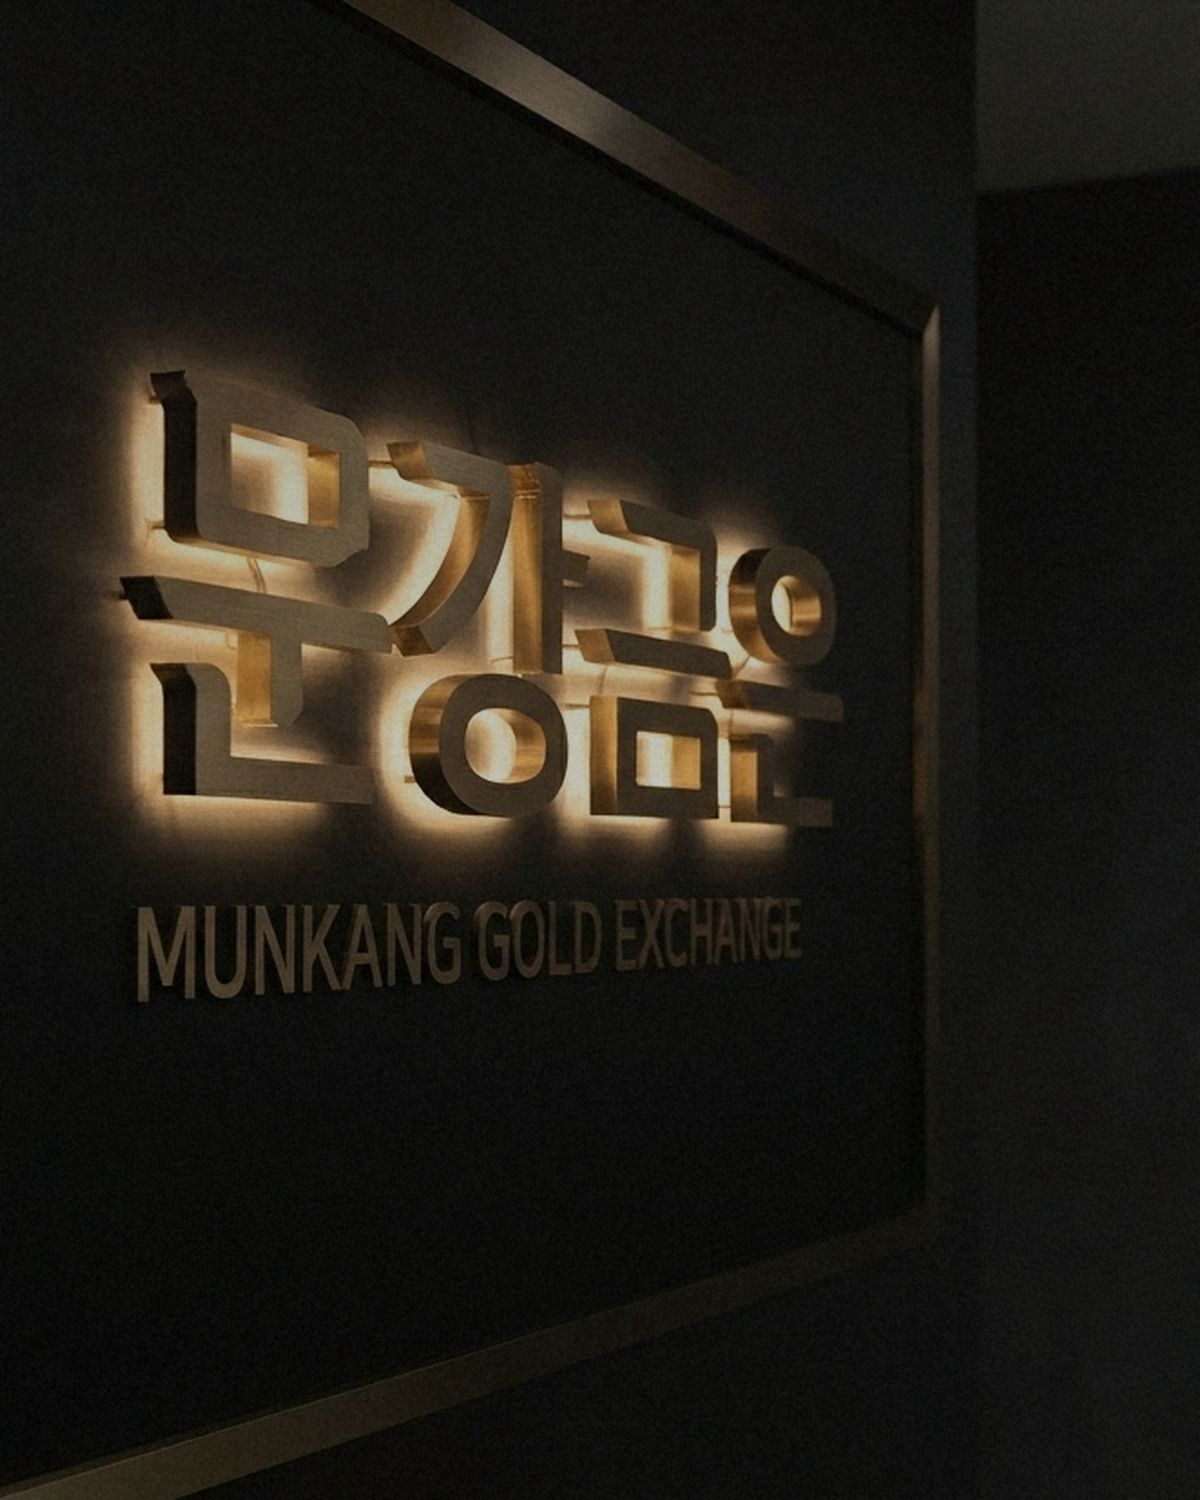
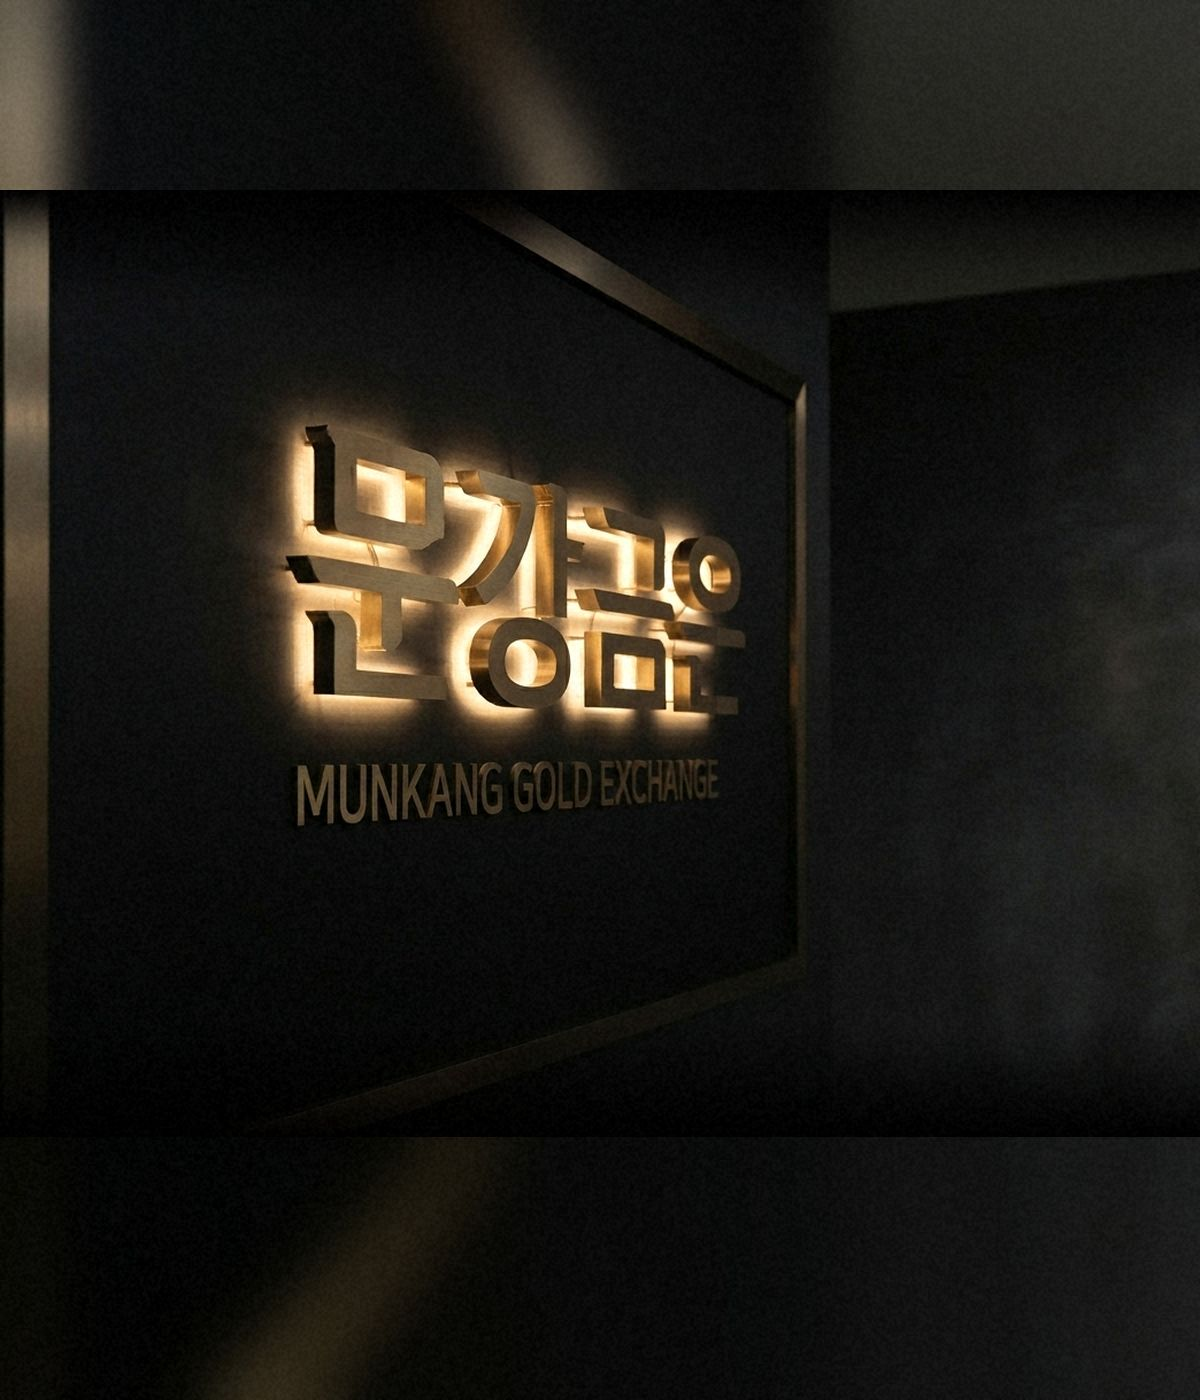
feat: 히어로 재구성 — 웹은 왼쪽 간판 패널, 모바일은 간판 먼저 보고 스크롤하면 문구가 차례로 등장

diff --git a/public/css/site.css b/public/css/site.css
@@ -239,7 +239,7 @@ h1,h2,h3{text-wrap:balance}p,li,dd{text-wrap:pretty}
 .footer-grid>*{min-width:0}.f-social{display:flex;flex-wrap:wrap;gap:6px 14px}
 
 /* 매장 실사 배너 — 히어로 배경(왼쪽은 글자가 읽히도록 어둡게 덮는다) */
-.hero{background:linear-gradient(90deg,#151311 0%,rgba(21,19,17,.95) 32%,rgba(21,19,17,.8) 55%,rgba(21,19,17,.62) 78%,rgba(21,19,17,.55) 100%),var(--hero-img,url("/img/hero.jpg")) center right/cover no-repeat,linear-gradient(180deg,#1a1713,#151311)}
+.hero{background:linear-gradient(90deg,#151311 0%,rgba(21,19,17,.95) 32%,rgba(21,19,17,.8) 55%,rgba(21,19,17,.62) 78%,rgba(21,19,17,.55) 100%),var(--hero-img,url("/img/hero.jpg")) left center/cover no-repeat,linear-gradient(180deg,#1a1713,#151311)}
 @media (max-width:900px){.hero{background:linear-gradient(180deg,rgba(21,19,17,.9) 0%,rgba(21,19,17,.74) 38%,rgba(21,19,17,.9) 100%),var(--hero-img-m,url("/img/hero-mobile.jpg")) center top/cover no-repeat,#151311}}
 
 /* 소개 페이지 매장 실사 */
@@ -249,3 +249,33 @@ h1,h2,h3{text-wrap:balance}p,li,dd{text-wrap:pretty}
 
 /* 시세판을 어두운 유리처럼 — 뒤 배너 사진이 숫자와 겹쳐 읽히지 않게 */
 .hero-board{background:rgba(18,16,14,.72);border-color:rgba(255,255,255,.12);box-shadow:0 24px 60px rgba(0,0,0,.45)}
+
+.hero-main .hb-table th,.hero-main .hb-table td{padding-top:7px;padding-bottom:7px}
+/* 히어로 재구성 — 웹: 왼쪽 간판 패널 + 오른쪽 내용 / 모바일: 간판을 먼저 보여주고 스크롤하면 내용이 올라온다 */
+.hero{background:linear-gradient(180deg,#1a1713 0%,var(--char) 55%,#151311 100%)}
+.hero-grid{max-width:none;grid-template-columns:.95fr 1.15fr;gap:0;align-items:stretch;padding:0}
+.hero-visual{position:relative;align-self:stretch;min-height:540px;background:var(--hero-img,url("/img/hero.jpg")) left center/cover no-repeat}
+.hero-visual::after{content:"";position:absolute;inset:0;background:linear-gradient(90deg,rgba(21,19,17,.45) 0%,rgba(21,19,17,.04) 24%,rgba(21,19,17,.3) 72%,var(--char) 100%)}
+.hero-main{display:flex;flex-direction:column;gap:16px;padding:40px max(20px,calc((100vw - 1160px)/2)) 40px 48px;min-width:0}
+.hero-main .hero-copy{max-width:640px}
+.hv-cue{display:none}
+@keyframes heroRise{from{opacity:0;transform:translateY(26px)}to{opacity:1;transform:none}}
+@keyframes heroSink{from{opacity:1;transform:scale(1)}to{opacity:.5;transform:scale(1.07)}}
+@keyframes cueFade{to{opacity:0}}
+@keyframes cueDrop{0%{opacity:.25;transform:translateY(-5px)}50%{opacity:1}100%{opacity:.25;transform:translateY(5px)}}
+@media (max-width:900px){
+  .hero-grid{grid-template-columns:1fr;gap:0;padding:0}
+  .hero-visual{margin:0;min-height:0;height:68vh;max-height:560px;background-image:var(--hero-img-m,url("/img/hero-mobile.jpg"));background-position:center 36%}
+  .hero-visual::after{background:linear-gradient(180deg,rgba(21,19,17,.3) 0%,rgba(21,19,17,0) 40%,rgba(21,19,17,.72) 86%,var(--char) 100%)}
+  .hv-cue{display:flex;align-items:center;gap:8px;position:absolute;left:0;right:0;bottom:16px;justify-content:center;z-index:2;color:#d8d0bd;font-size:12px;font-weight:600}
+  .hv-cue i{width:1px;height:24px;background:linear-gradient(#d8d0bd,rgba(216,208,189,0));animation:cueDrop 1.8s ease-in-out infinite}
+  .hero-main{padding:24px 16px 36px;gap:18px}
+  .hero-main .hero-copy{max-width:none}
+}
+@media (max-width:900px){
+  .hero-visual{opacity:calc(1 - var(--hero-p,0) * .45);transform:scale(calc(1 + var(--hero-p,0) * .06));transform-origin:50% 35%;will-change:opacity,transform}
+  .hv-cue{opacity:calc(1 - var(--hero-p,0) * 2.2)}
+  .hero-copy>.seq{opacity:0;transform:translateY(26px);transition:opacity .55s ease,transform .55s cubic-bezier(.22,.61,.36,1)}
+  .hero-copy>.seq.in{opacity:1;transform:none}
+}
+@media (prefers-reduced-motion:reduce){.hero-visual{opacity:1!important;transform:none!important}.hv-cue i{animation:none!important}.hero-copy>.seq{transition:none!important}}

diff --git a/public/js/site.js b/public/js/site.js
@@ -124,6 +124,32 @@
     document.addEventListener('visibilitychange', () => { if (!document.hidden) pull(); });
   }
 
+  // 모바일 히어로 시퀀스 — 간판을 먼저 보여주고, 스크롤하면 문구가 차례로 올라온다
+  const heroSec = $('.hero'); const heroVisual = $('.hero-visual'); const heroCopy = $('.hero-copy');
+  if (heroSec && heroVisual && heroCopy) {
+    const mq = window.matchMedia('(max-width:900px)');
+    const items = $$(':scope > *', heroCopy);
+    let ticking = false;
+    const paint = () => {
+      if (!mq.matches) return;
+      const h = heroVisual.offsetHeight || 1;
+      heroSec.style.setProperty('--hero-p', Math.min(1, Math.max(0, window.scrollY / h)).toFixed(3));
+      const trigger = window.innerHeight * 0.78;
+      items.forEach(el => { if (el.getBoundingClientRect().top < trigger) el.classList.add('in'); });
+    };
+    const setup = () => {
+      if (mq.matches) {
+        const still = window.matchMedia('(prefers-reduced-motion: reduce)').matches;
+        items.forEach((el, i) => { el.classList.add('seq'); el.style.transitionDelay = `${i * 90}ms`; if (still) el.classList.add('in'); });
+        if (!still) paint();
+      }
+      else { items.forEach(el => { el.classList.remove('seq', 'in'); el.style.transitionDelay = ''; }); heroSec.style.removeProperty('--hero-p'); }
+    };
+    window.addEventListener('scroll', () => { if (ticking) return; ticking = true; requestAnimationFrame(() => { paint(); ticking = false; }); }, { passive: true });
+    window.addEventListener('resize', setup, { passive: true });
+    setup();
+  }
+
   // 유튜브 롤링(홈 계산기 옆) — 3.5초마다 한 칸, 마우스를 올리면 멈춤, 누르면 팝업 재생
   const roll = $('#ytRoll'); const ytModal = $('#ytModal');
   if (roll && ytModal) {

diff --git a/routes/pages-main.js b/routes/pages-main.js
@@ -68,6 +68,8 @@ router.get('/', (req, res) => {
   const body = `
 <section class="hero">
   <div class="wrap hero-grid">
+    <div class="hero-visual"><span class="hv-cue" aria-hidden="true"><i></i>아래로 내리면 오늘 시세</span></div>
+    <div class="hero-main">
     <div class="hero-copy">
       <p class="eyebrow">종로3가역 11번 출구 앞 금·은 매입·판매</p>
       <h1>오늘 금 한 돈,<br><span class="hl">${g ? fmtNum(g.buy) + '원' : '당일 시세'}</span>에 사드립니다</h1>
@@ -83,6 +85,7 @@ router.get('/', (req, res) => {
       </div>
       <table class="hb-table"><tbody>${st.rows.filter(r => r.code !== 'au999').map(r => `<tr data-code="${attr(r.code)}"><th>${esc(r.name)}</th><td class="num">${fmtNum(r.buy)}</td><td class="num">${r.sell ? fmtNum(r.sell) : '<span class="muted">—</span>'}</td><td class="num">${chg(r.diff, r.pct)}</td></tr>`).join('')}</tbody><tfoot><tr><th></th><td class="num">매입</td><td class="num">판매</td><td class="num">전일비</td></tr></tfoot></table>
       <div class="hb-foot"><span class="unit-toggle" role="group" aria-label="단위"><button class="ut active" data-unit="don">돈</button><button class="ut" data-unit="g">g</button></span><a href="/price">전체 시세표 →</a></div>
+    </div>
     </div>
   </div>
   <div class="ticker" aria-label="오늘의 시세 흐름"><div class="ticker-track" id="tickerTrack">${tickerHtml}${tickerHtml}</div></div>

diff --git a/scripts/make-banner.py b/scripts/make-banner.py
@@ -127,7 +127,7 @@ def extend_left_dark(im, out_w, out_h, sign_center=0.40, target=0.66):
     return canvas.crop((start, 0, start + out_w, h))
 
 
-def trim_corner(im, right_pct=0.085, bottom_pct=0.075):
+def trim_corner(im, right_pct=0.13, bottom_pct=0.08):
     """오른쪽 아래 모서리(생성 이미지 워터마크 영역)를 잘라낸다."""
     w, h = im.size
     return im.crop((0, 0, int(w * (1 - right_pct)), int(h * (1 - bottom_pct))))
@@ -158,24 +158,51 @@ def spread(im, out_w, out_h, target):
     return (extend_left_dark if DARK else extend_left)(im, out_w, out_h, target=target)
 
 
+def panel(im, w, h, top_bias=0.5):
+    """세로로 긴 패널용 — 가로를 꽉 채우고 남는 위아래는 벽면을 늘려 채운다(간판이 잘리지 않게)."""
+    base = im.resize((w, max(1, int(im.height * w / im.width + 0.5))), Image.LANCZOS)
+    if base.height >= h:
+        return cover(im, w, h, 0.5)
+    scale = w / im.width
+    if scale > 2:
+        base = base.filter(ImageFilter.GaussianBlur(min(5.0, (scale - 1) * 0.4)))
+    pad = h - base.height
+    top = int(pad * top_bias)
+    edge = max(4, int(base.height * 0.07))
+    canvas = Image.new('RGB', (w, h))
+    if top > 0:
+        strip = base.crop((0, 0, w, edge)).resize((w, top), Image.LANCZOS).filter(ImageFilter.GaussianBlur(26))
+        canvas.paste(ImageEnhance.Brightness(strip).enhance(0.9), (0, 0))
+    if pad - top > 0:
+        strip = base.crop((0, base.height - edge, w, base.height)).resize((w, pad - top), Image.LANCZOS).filter(ImageFilter.GaussianBlur(26))
+        canvas.paste(ImageEnhance.Brightness(strip).enhance(0.9), (0, top + base.height))
+    # 늘린 벽면과 원본 경계가 보이지 않도록 위아래를 부드럽게 겹친다
+    fade = max(40, int(base.height * 0.12))
+    m = Image.new('L', (1, base.height), 255)
+    for y in range(fade):
+        v = int(255 * (y / max(1, fade - 1)))
+        m.putpixel((0, y), v)
+        m.putpixel((0, base.height - 1 - y), v)
+    canvas.paste(base, (0, top), m.resize((w, base.height), Image.BILINEAR))
+    return canvas
+
+
 def hero_desktop(src):
-    """데스크톱 히어로 배경 — 간판이 오른쪽에 오고, 왼쪽은 글자를 얹을 수 있게 비운다.
-    어둡게 까는 그라데이션은 CSS가 얹으므로 여기서는 전체 밝기만 살짝 낮춘다."""
-    w, h = 2400, 1100
-    im = spread(grade(src), w, h, 0.66)
-    im = ImageEnhance.Brightness(im).enhance(0.98 if DARK else 0.86)
-    top_layer, top_mask = linear_overlay((w, h), [(0.0, 120), (0.28, 30), (0.78, 40), (1.0, 130)], horizontal=False)
-    im = Image.composite(top_layer, im, top_mask)
-    return grain(vignette(im, 40))
+    """데스크톱 히어로 왼쪽 패널용 — 간판이 화면 왼쪽 절반을 채운다(글자는 오른쪽 어두운 면에 올라감)."""
+    w, h = 1200, 1500  # 왼쪽 패널이 세로로 길다
+    im = panel(grade(src), w, h, 0.46) if DARK else cover(grade(src), w, h, focus=0.5)
+    if not DARK:
+        im = ImageEnhance.Brightness(im).enhance(0.88)
+    return grain(vignette(im, 26))
 
 
 def hero_mobile(src):
-    """모바일 히어로 배경 — 세로 화면. 조명 분위기만 남기고 어둡게."""
-    w, h = 1200, 1500
-    im = cover(grade(src), w, h, focus=0.42 if DARK else 0.5)
-    im = ImageEnhance.Brightness(im).enhance(1.0 if DARK else 0.9)
-    layer, mask = linear_overlay((w, h), [(0.0, 95), (0.5, 70), (1.0, 60)] if DARK else [(0.0, 150), (0.5, 120), (1.0, 95)], horizontal=False)
-    return grain(Image.composite(layer, im, mask))
+    """모바일 상단 간판 블록용 — 세로로 길게, 간판을 가운데."""
+    w, h = 1200, 1400
+    im = panel(grade(src), w, h, 0.42) if DARK else cover(grade(src), w, h, focus=0.5)
+    if not DARK:
+        im = ImageEnhance.Brightness(im).enhance(0.9)
+    return grain(vignette(im, 20))
 
 
 def og_image(src):
